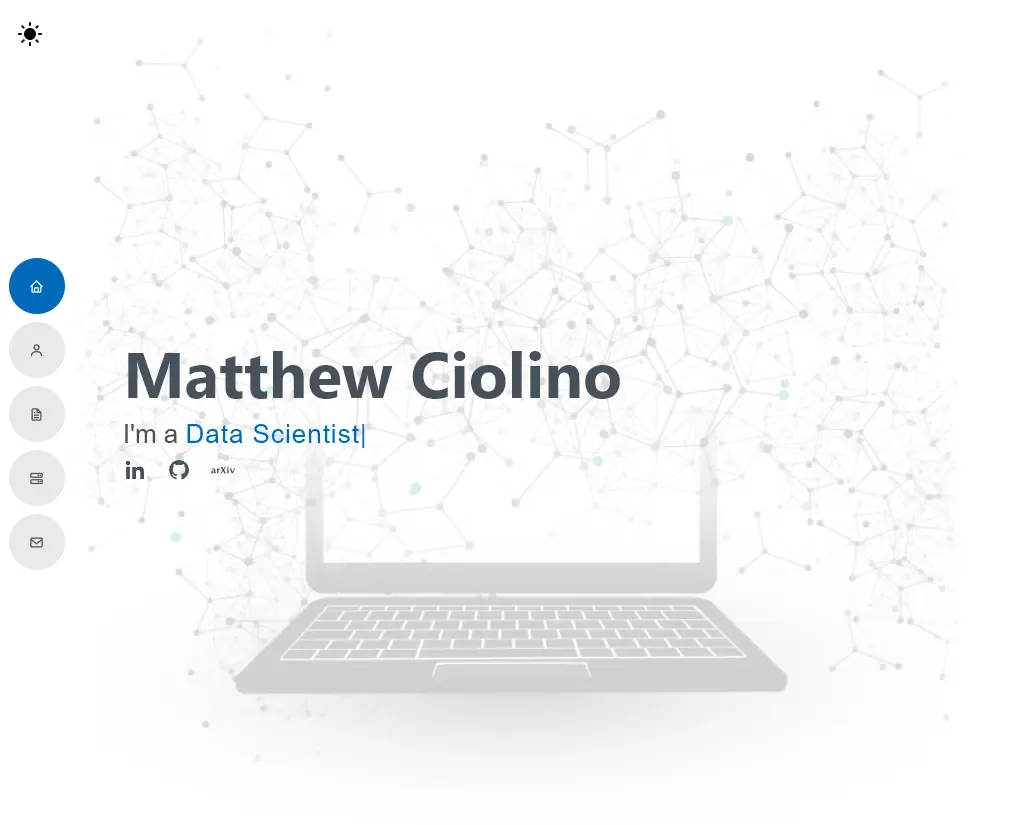
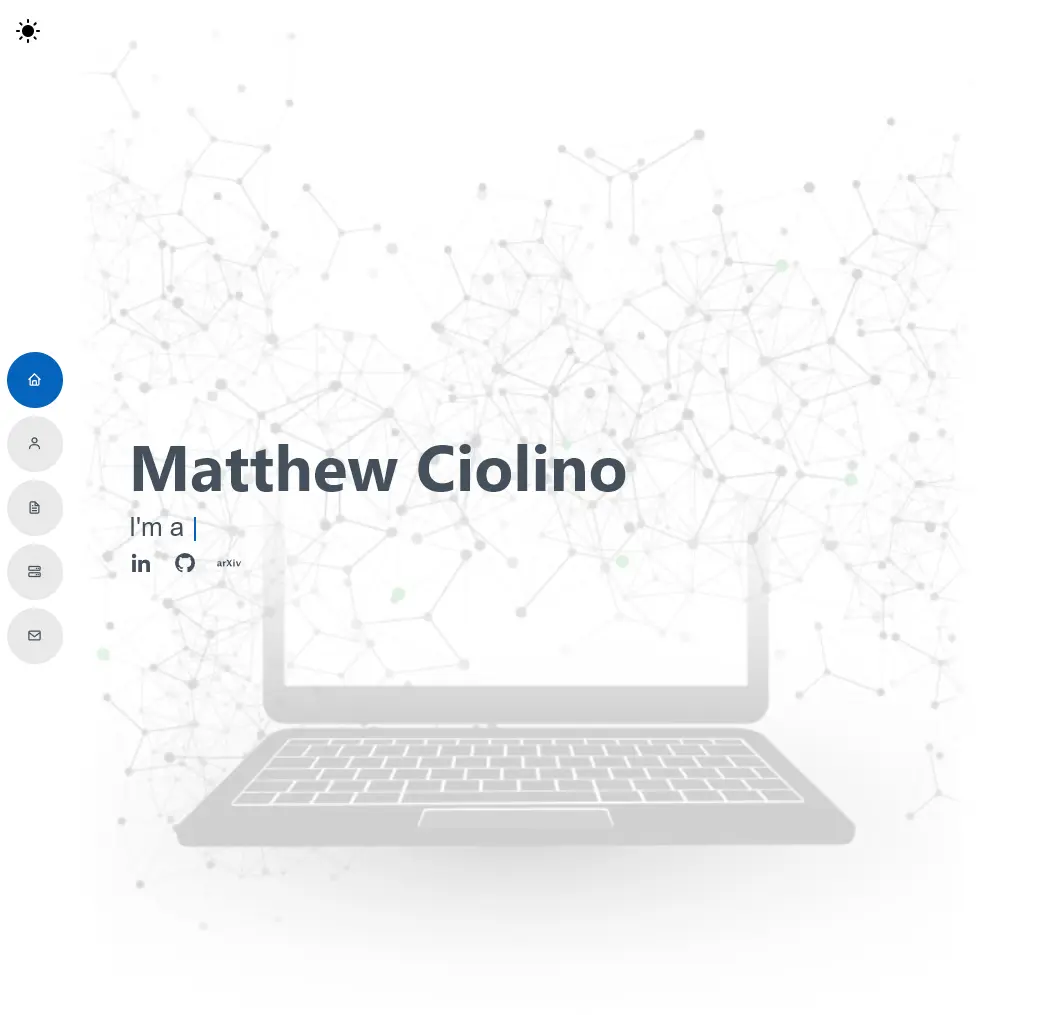
updating scroll to top and readme images

diff --git a/src/components.jsx b/src/components.jsx
@@ -278,8 +278,13 @@ const Header = (props) => {
     }
 
     const handleScrollToTop = () => {
-        window.scrollTo({ top: 0, behavior: 'smooth' });
-    }
+        const c = document.documentElement.scrollTop || document.body.scrollTop;
+        if (c > 0) {
+            window.requestAnimationFrame(handleScrollToTop);
+            window.scrollTo(0, c - c / 16);
+        }
+    };
+
     return (
         <header id="header" className="d-flex flex-column justify-content-center">
             <DarkModeSwitch className="darkmodeswitch m-4" onChange={setDarkTheme} checked={darkTheme} />
@@ -294,9 +299,7 @@ const Header = (props) => {
                 </ul>
             </nav>
             {scrollPosition > 1500 && (
-                <Button id="scroll_to_top" className="btn-scroll-top" size="sm" style={{ position: 'fixed', bottom: '15px', right: '15px' }} onClick={handleScrollToTop}>
-                    <Icon icon="bx:bx-up-arrow-alt" />
-                </Button>
+                <Icon icon="ic:sharp-arrow-circle-up" id="scroll_to_top" className='medium mt-4' onClick={handleScrollToTop} />
             )}
         </header>
     );

diff --git a/src/App.scss b/src/App.scss
@@ -88,10 +88,14 @@ General Section
 
 @media (max-width: 992px) {
   #scroll_to_top {
-    display: block;
-    background-color: var(--off-bg-color);
+    background-color: transparent;
     color: var(--text-color);
     border-color: var(--dark-shadow);
+    display: block;
+    position: fixed;
+    top: 0;
+    right: 5vw;
+    font-size: 2rem;
   }
 
   #scroll_to_top:hover {

diff --git a/README.md b/README.md
@@ -39,3 +39,7 @@ Research and Resume Section
 Projects Section
 
 ![](/public/assets/images/readme-projects.webp)
+
+Dark Mode
+
+![](/public/assets/images/readme-hero-dark.webp)
